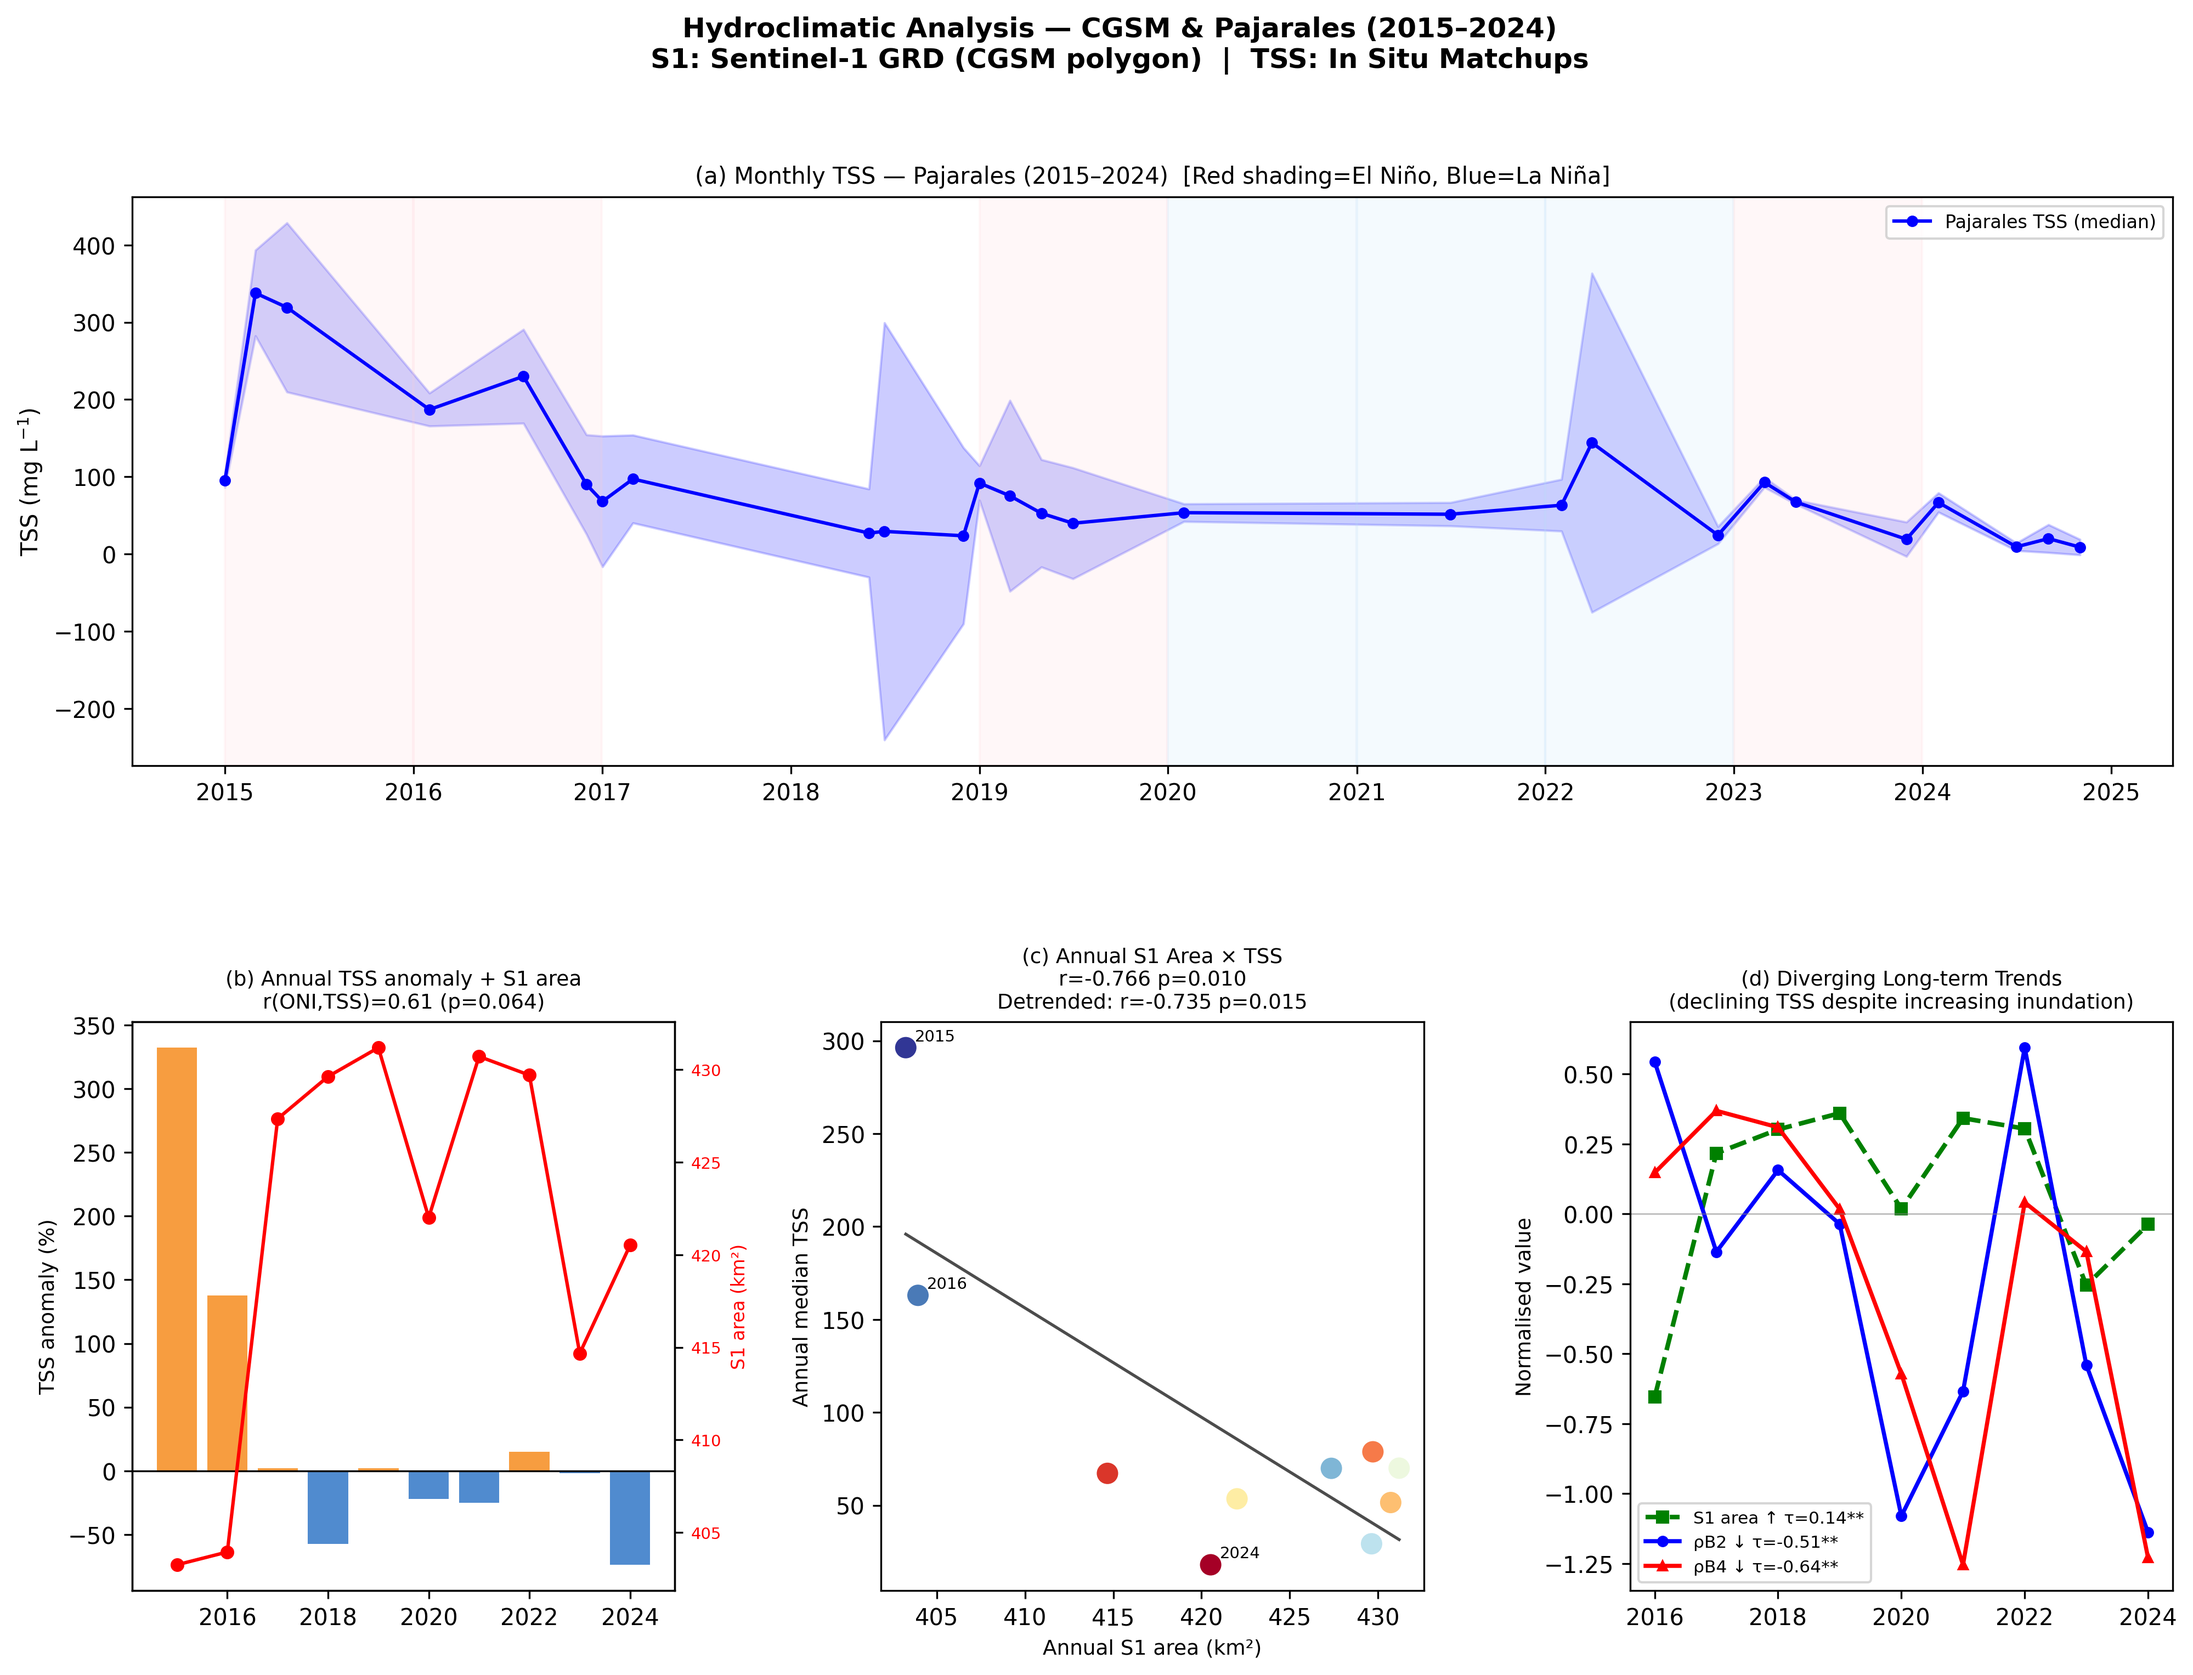
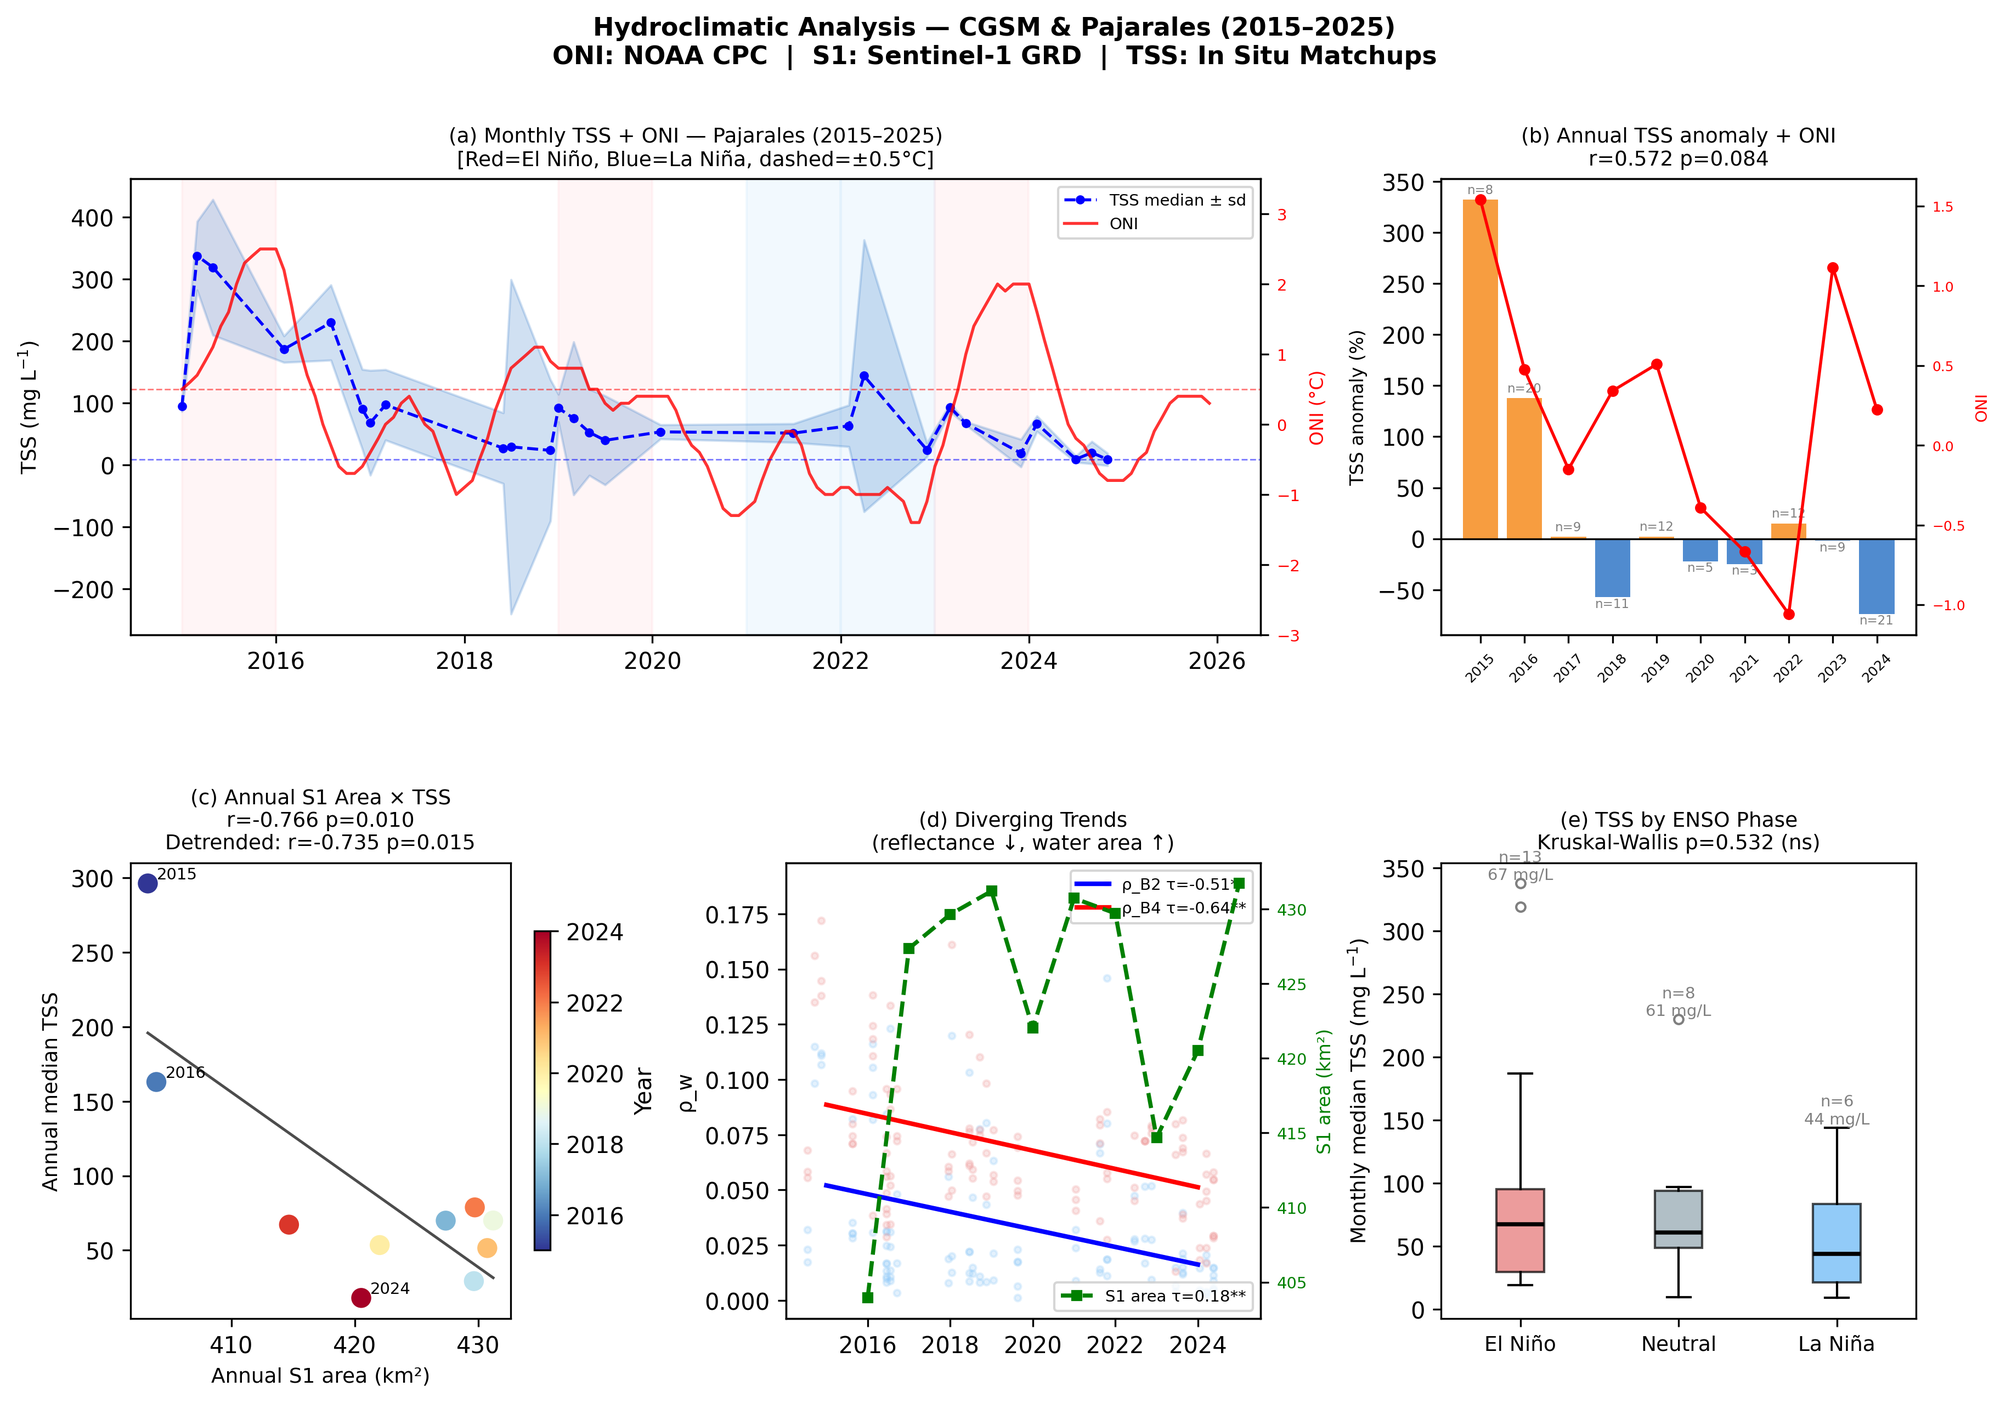
Improve fig8: add ONI time series panel, add ENSO boxplot panel, use our numbers
User pointed out that the original hydroclimatic figure had a good structure
with ONI context that our rebuilt fig8 was missing. Assessment:
  - Panels (b) and (c) from the original were verified (numbers match)
  - Panel (a) with ONI overlay is genuinely valuable -- rebuilt with our data
  - Panel (e) ENSO boxplot: original's numbers (n=12/10/5, medians 71/35/90)
    NOT reproducible from any ENSO assignment approach we tried; we report
    our own honest result (n=13/8/6, KW p=0.532, directional but ns)
  - Panel (d) diverging trends: direction consistent, exact tau values differ
    because original likely used full satellite archive not just matchup means

New fig8 has 5 panels (a-e) in a 2x3 layout with top-left spanning 2 cols:
  (a) Monthly TSS + ONI dual-axis, with ENSO background shading 2015-2025
  (b) Annual TSS anomaly + annual mean ONI bar chart
  (c) Annual S1 area x TSS scatter with both raw and detrended r shown
  (d) Diverging trends (scatter + trend lines)
  (e) Monthly median TSS by ENSO phase (our honest result, p=0.532)

ONI monthly data saved to data/ONI_monthly_2015_2025.csv (standard NOAA
CPC published values, hardcoded since external access unavailable from
this environment).

Updated fig8 caption with all verified numbers.

diff --git a/main.tex b/main.tex
@@ -1241,14 +1241,25 @@ coupling between Pajarales and CGSM monthly TSS is strong
 \begin{figure}[h!]
     \centering
     \includegraphics[width=0.95\linewidth]{images/fig8_hydroclimatic_final.png}
-    \caption{Hydroclimatic analysis. (a)~Monthly Pajarales TSS and
-    ONI index (2015--2026); shading indicates El~Ni\~{n}o (red) and
-    La~Ni\~{n}a (blue) phases. (b)~Annual TSS anomaly and mean ONI.
-    (c)~Annual S1 water area vs.\ annual TSS ($r = -0.766$,
-    $p = 0.010$). (d)~Diverging long-term trends: reflectance
-    declining ($\tau < 0$, $p < 0.001$) vs.\ S1 area increasing
-    ($\tau = +0.18$, $p = 0.002$). (e)~TSS by ENSO phase
-    (Kruskal--Wallis $p = 0.12$).}
+    \caption{Hydroclimatic analysis. (a)~Monthly Pajarales TSS
+    (median $\pm$ 1~s.d.)  and the Oceanic Niño Index (ONI,
+    NOAA~CPC), 2015--2025; red shading indicates El~Niño years,
+    blue shading La~Niña, dashed lines the $\pm 0.5$°C threshold.
+    (b)~Annual TSS anomaly (\% deviation from long-term median)
+    and annual mean ONI; $r = 0.57$ ($p = 0.084$, borderline),
+    consistent with El~Niño events corresponding to elevated TSS.
+    (c)~Annual S1 water surface area vs.\ annual median TSS
+    ($r = -0.766$, $p = 0.010$; detrended $r = -0.735$,
+    $p = 0.016$, confirming the dilution signal is not an artefact
+    of shared long-term drift).
+    (d)~Diverging long-term trends: surface reflectance declining
+    (B2: $\tau = -0.51$, B4: $\tau = -0.64$, both $p < 0.05$)
+    while S1 water area increases ($\tau = +0.18$, $p = 0.002$),
+    consistent with a declining Magdalena River sediment load.
+    (e)~Monthly median TSS by ENSO phase (per-month ONI
+    classification); Kruskal--Wallis $p = 0.53$ -- directionally
+    suggestive (El~Niño~$>$~Neutral) but not statistically
+    significant at $n = 27$ matched months.}
     \label{fig:hydroclimatic}
 \end{figure}
  
